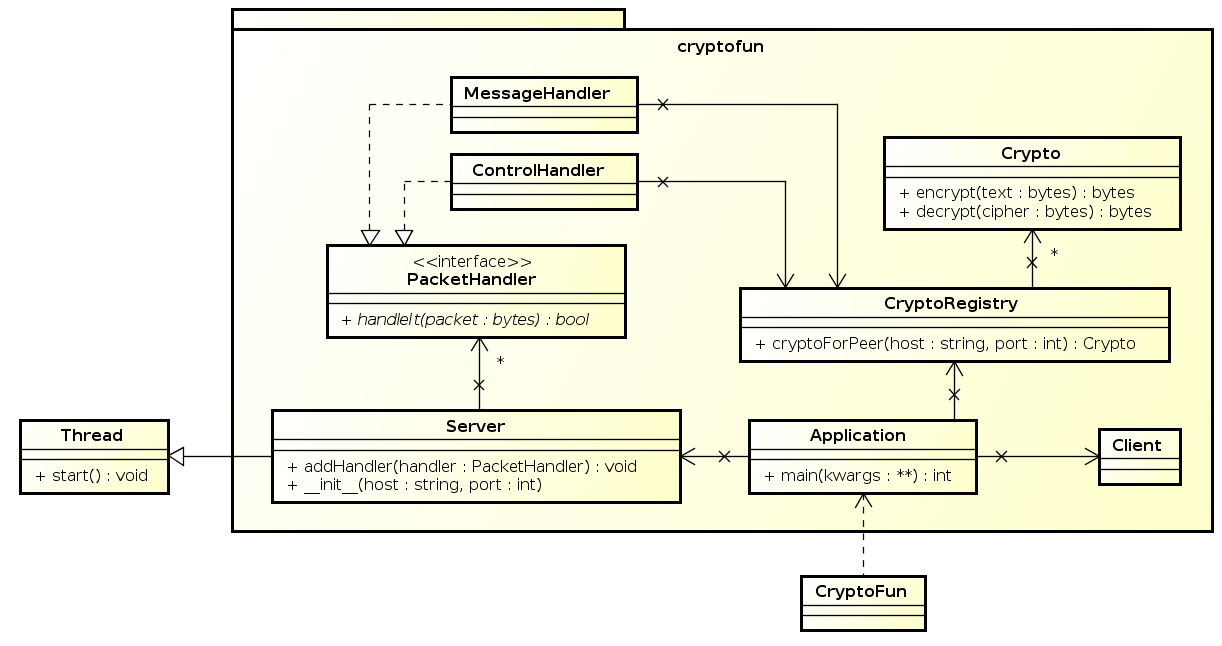
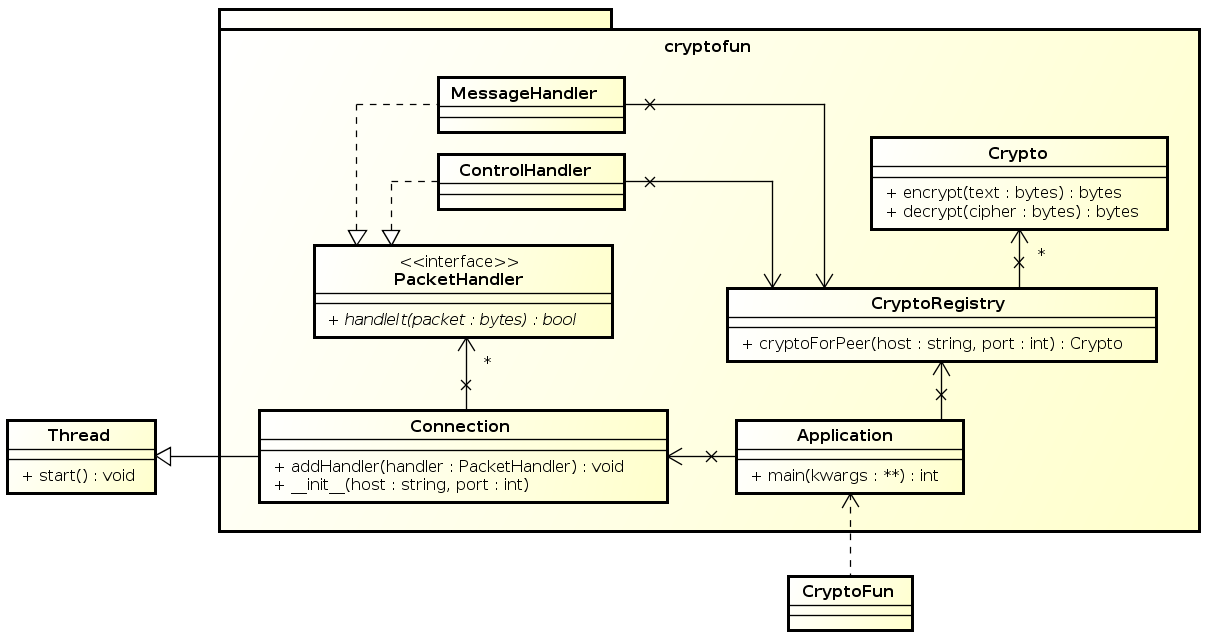
merged Client and Server class into Connection class
because a socket works bidirectional too

Changed region(s): [[0.0, 0.0, 1.0, 0.8339], [0.6443, 0.8636, 0.767, 1.0]]

diff --git a/cryptofun/__init__.py b/cryptofun/__init__.py
@@ -1,8 +1,7 @@
 from .Application import Application
-from .Client import Client
+from .Connection import Connection
 from .ControlHandler import ControlHandler
 from .Crypto import Crypto
 from .CryptoRegistry import CryptoRegistry
 from .MessageHandler import MessageHandler
 from .PacketHandler import PacketHandler
-from .Server import Server

diff --git a/cryptofun/Connection.py b/cryptofun/Connection.py
@@ -1,0 +1,9 @@
+"""
+
+"""
+
+class Connection(object):
+    """docstring for Connection"""
+    def __init__(self, arg):
+        super(Connection, self).__init__()
+        self.arg = arg
